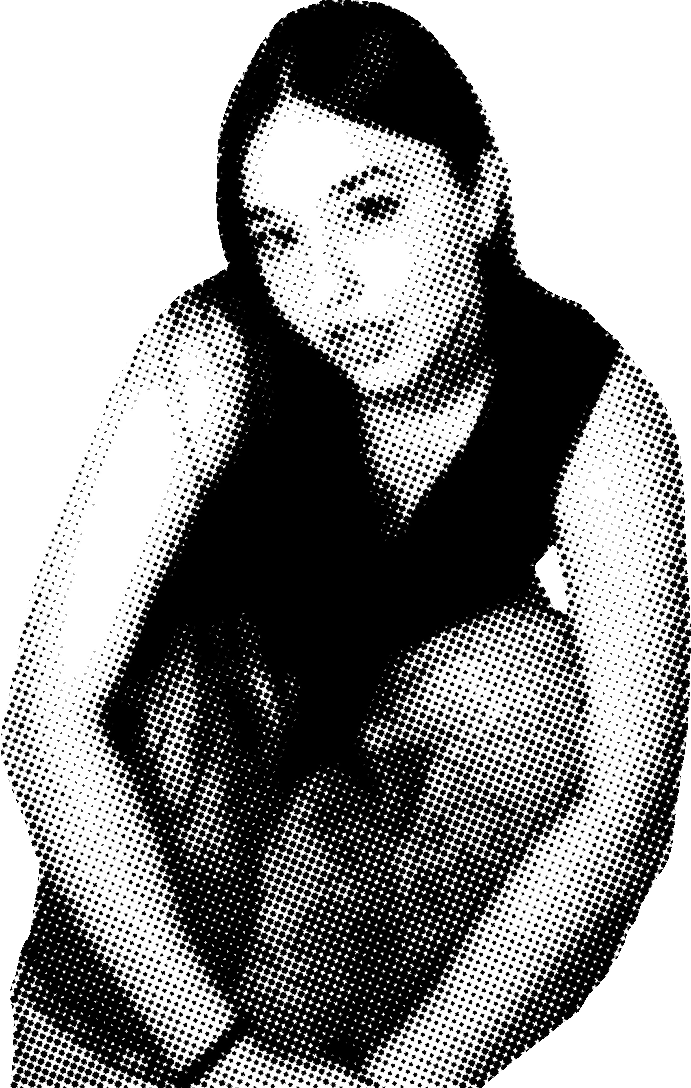
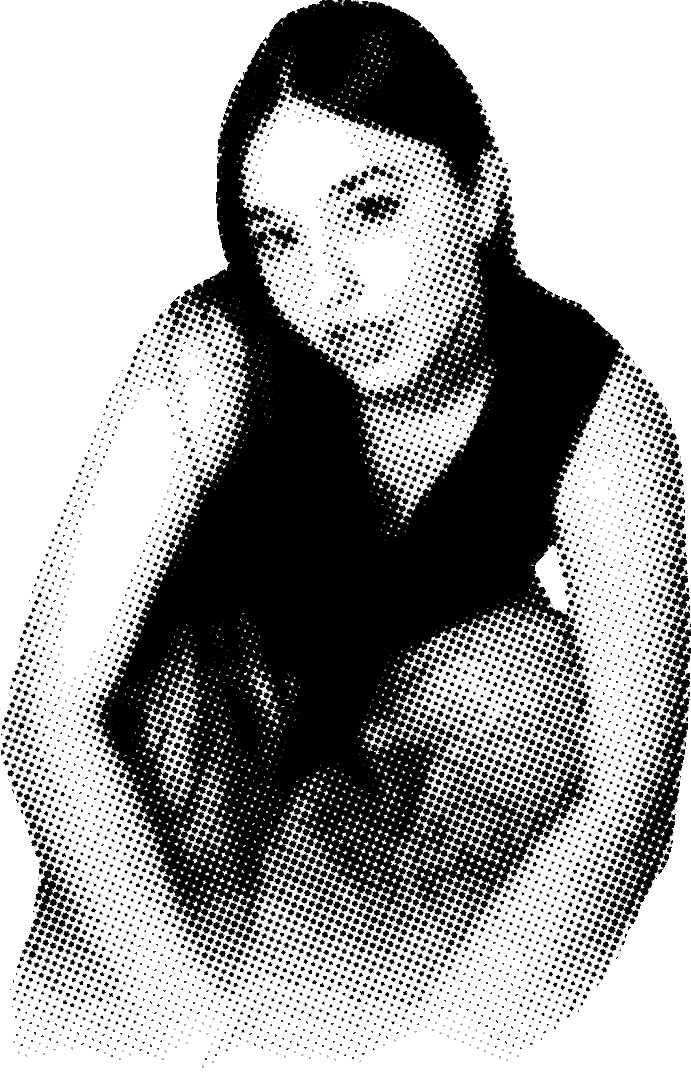
Intercambiar fotos: Abril sentada en la portada y parada en la contratapa

Changed region(s): [[0.0, 0.8125, 0.9421, 1.0]]

diff --git a/src/index.css b/src/index.css
@@ -337,7 +337,7 @@ figure {
   left: calc(var(--m) + min(29vw, 40vh) * 1.86);
   bottom: 0;
   height: 94svh;
-  aspect-ratio: 785 / 1333;
+  aspect-ratio: 691 / 1088;
   pointer-events: none;
 }
 .portada__abril > div,
@@ -348,18 +348,18 @@ figure {
   mask: var(--mk) center / 100% 100% no-repeat;
 }
 .portada__abril-papel {
-  --mk: url(/tex/abril-cuerpo-papel.png);
+  --mk: url(/tex/abril-sentada-papel.png);
   background: var(--claro);
 }
 .portada__abril-fluo {
-  --mk: url(/tex/abril-cuerpo-ht.png);
+  --mk: url(/tex/abril-sentada-ht.png);
   background: var(--fluo);
   transform: translate(10px, -6px);
   mix-blend-mode: multiply;
   opacity: 0.9;
 }
 .portada__abril-tinta {
-  --mk: url(/tex/abril-cuerpo-ht.png);
+  --mk: url(/tex/abril-sentada-ht.png);
   background: var(--cherry);
   mix-blend-mode: multiply;
 }
@@ -447,7 +447,7 @@ figure {
   .portada__abril {
     left: 50%;
     height: 80svh;
-    margin-left: calc(80svh * 785 / 1333 * -0.46);
+    margin-left: calc(80svh * 691 / 1088 * -0.5);
   }
   .portada__mesa {
     opacity: 0.85;
@@ -1304,7 +1304,7 @@ figure {
 .cierre {
   position: relative;
   display: grid;
-  grid-template-columns: 7fr 5fr;
+  grid-template-columns: 6fr 5fr;
   gap: 32px;
   min-height: 100svh;
   padding: 120px var(--m) 0;
@@ -1317,9 +1317,10 @@ figure {
   flex-direction: column;
   position: relative;
   z-index: 2;
+  min-width: 0;
 }
 .cierre__invita {
-  font-size: clamp(96px, 14vw, 240px);
+  font-size: clamp(96px, 11.5vw, 210px);
 }
 .cierre__bajada {
   margin: 20px 0 48px;
@@ -1374,8 +1375,10 @@ figure {
   position: relative;
   align-self: end;
   justify-self: center;
-  height: min(86svh, 860px);
-  aspect-ratio: 691 / 1088;
+  /* entra entera en su columna: el ancho manda si la columna es angosta */
+  width: min(100%, calc(min(90svh, 900px) * 785 / 1333));
+  height: auto;
+  aspect-ratio: 785 / 1333;
 }
 .cierre__abril > div {
   position: absolute;
@@ -1384,18 +1387,18 @@ figure {
   mask: var(--mk) center / 100% 100% no-repeat;
 }
 .cierre__abril-papel {
-  --mk: url(/tex/abril-sentada.png);
+  --mk: url(/tex/abril-cuerpo-papel.png);
   background: var(--claro);
 }
 .cierre__abril-fluo {
-  --mk: url(/tex/abril-sentada-ht.png);
+  --mk: url(/tex/abril-cuerpo-ht.png);
   background: var(--fluo);
   transform: translate(10px, -6px);
   mix-blend-mode: multiply;
   opacity: 0.9;
 }
 .cierre__abril-tinta {
-  --mk: url(/tex/abril-sentada-ht.png);
+  --mk: url(/tex/abril-cuerpo-ht.png);
   background: var(--bordo);
   mix-blend-mode: multiply;
 }

diff --git a/index.html b/index.html
@@ -10,7 +10,7 @@
     <link rel="preconnect" href="https://fonts.googleapis.com" />
     <link rel="preconnect" href="https://fonts.gstatic.com" crossorigin />
     <link href="https://fonts.googleapis.com/css2?family=Archivo:wdth,wght@62..125,400;62..125,500;62..125,700;62..125,800;62..125,900&display=swap" rel="stylesheet" />
-    <link rel="preload" as="image" href="/tex/abril-cuerpo.png" />
+    <link rel="preload" as="image" href="/tex/abril-sentada-papel.png" />
   </head>
   <body>
     <div id="root"></div>
